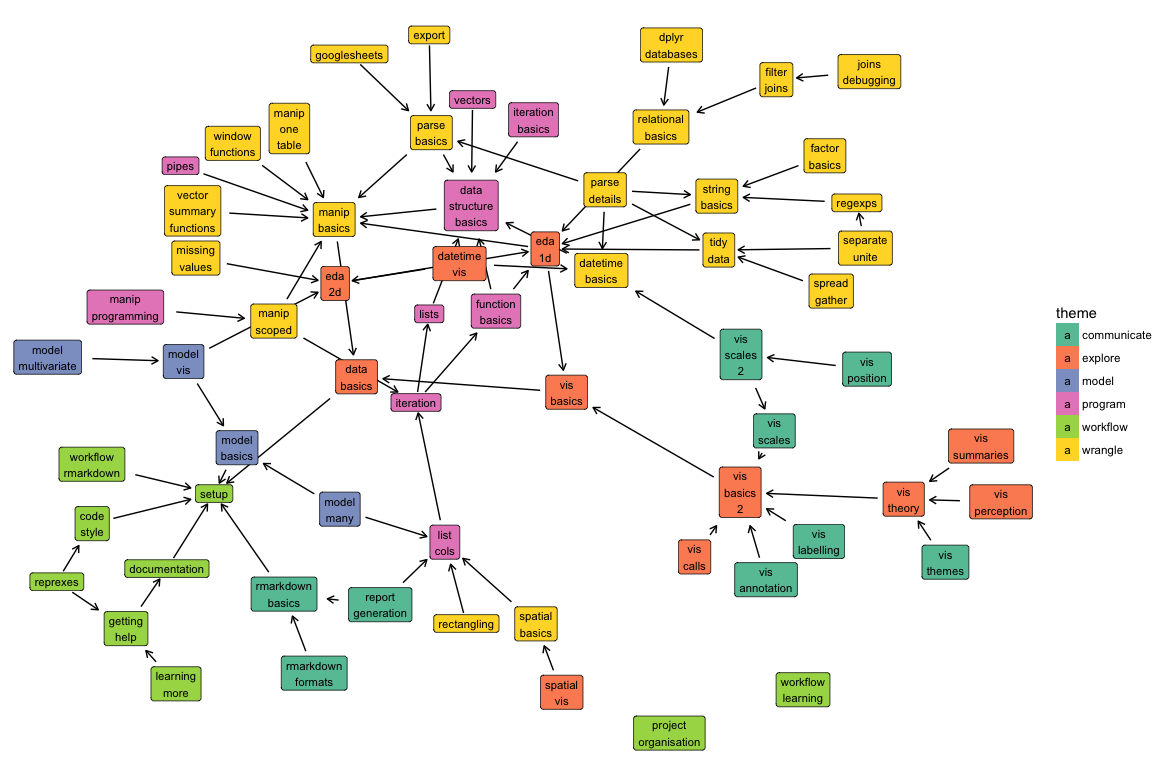
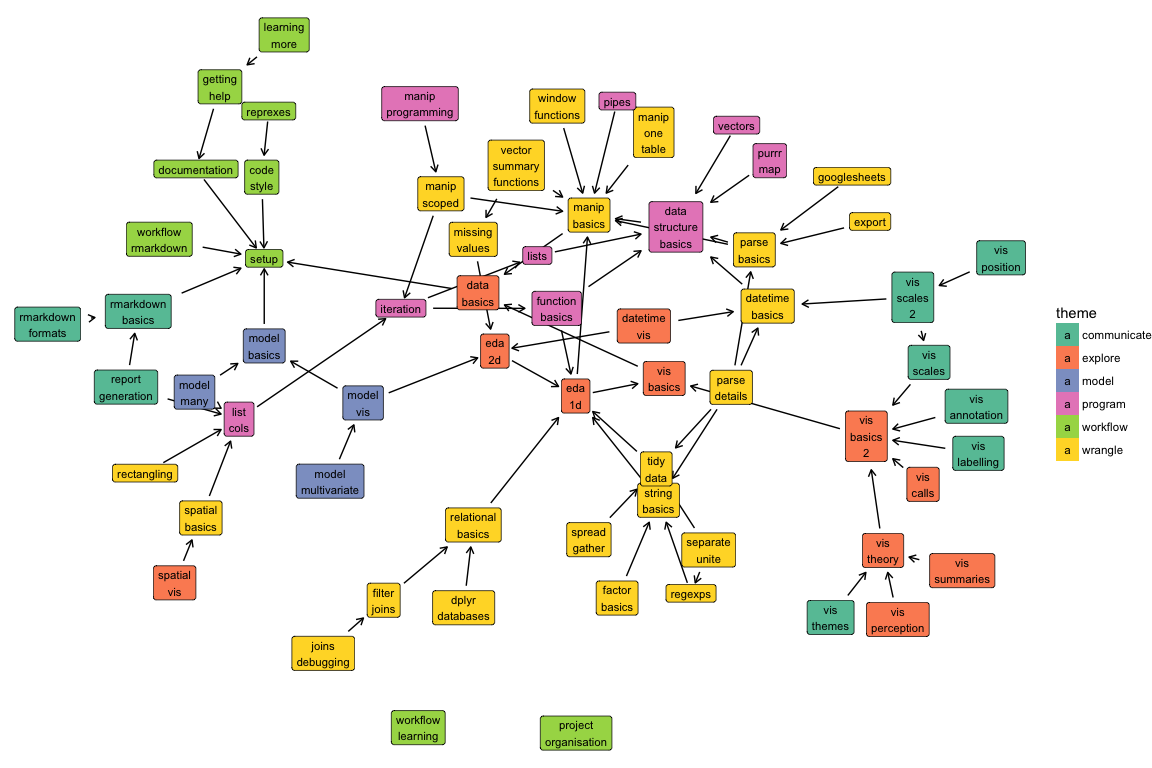
Iteration-basics tweaks
Rename to purrr-map and place in week 3.

diff --git a/docs/purrr-map.md b/docs/purrr-map.md
@@ -2,7 +2,7 @@
 title: Iteration basics
 ---
 
-<!-- Generated automatically from iteration-basics.yml. Do not edit by hand -->
+<!-- Generated automatically from purrr-map.yml. Do not edit by hand -->
 
 # Iteration basics <small class='program'>[program]</small>
 <small>(Builds on: [Data structure basics](data-structure-basics.md))</small>
@@ -13,11 +13,8 @@ title: Iteration basics
 One of the biggest advantage to using a programming langauge rather than
 a point-and-click GUI is that you can automate repetitive tasks. In this
 lesson, you’ll the learn basics of the purrr package in order to repeat
-a task across multiple elements of a list (a new data structure which
-you’ll learn about shortly).
-
-We’ll use two packages: purrr, which contains functions for iteration,
-and repurrssive, which contains some interesting data sets.
+a task across multiple elements of a vector. We’ll also use the
+repurrrsive package, which contains some interesting data sets.
 
 ``` r
 library(purrr)
@@ -74,8 +71,8 @@ str(luke)
 #>  $ url       : chr "http://swapi.co/api/people/1/"
 ```
 
-In this case, each component of `sw_people` is a list containing
-information about each character.
+In this case, each element of the `sw_people` list is another list
+containing data about a character.
 
 ### `map()` basics
 
@@ -98,8 +95,8 @@ length(leia[["starships"]])
 #> [1] 0
 ```
 
-But what if you want to do it for all 87 people? Repeating the pattern
-using copy and paste will be both tedious and error prone\!
+But what if you want to do it for all 87 people? Using copy and paste
+will be both tedious and error prone.
 
 ``` r
 length(sw_people[[1]][["starships"]])
@@ -113,33 +110,32 @@ length(sw_people[[87]][["starships"]])
 #> [1] 3
 ```
 
-Instead, we’re going to use `purrr::map()`. `map()` has two key
-arguments:
+Instead, we’re going to learn a new approach using `purrr::map()`.
+`map()` has two key arguments:
 
-  - `.x`: an atomic vector, list, or data frame to do something to
-  - `.f`: the thing to do each element
+  - `.x`: an atomic vector, list, or data frame to do manipulate.
+  - `.f`: the thing to do each element.
 
 There are many ways to specify `.f` which you’ll learn about later. For
 now, we’re going to focus on using it with **formulas**, which are
-created with `~`. Formulas allow us to extract out a common recipe from
-repeated code.
+created with `~`. Formulas allow us to extract out a common pattern, or
+recipe, from repeated code.
 
 Creating a recipe is easy: take a single solution and put a `~` in front
-of it, and replace the specific element with a pronoun, `.x`. For
-example, to find the number of starships for a person, we’d do:
+of it, and replace the part the varies over elements with `.x`, a
+pronoun. For example, to find the number of starships for a person, we’d
+do:
 
 ``` r
 ~ length(.x$starships)
 #> ~length(.x$starships)
-#> <environment: 0x7fdc1c107a78>
+#> <environment: 0x7fb6506d9a78>
 ```
 
 This is a formula. A formula doesn’t do anything; it just captures your
-intent.
-
-To do some computation with this formula, we need to apply it to the
-`sw_people` list with with map. The output is quite long so I save it to
-a variable and then only look at the first few entries (using `head()`):
+intent. Here `.x` is a pronoun like “it”, `map()` will replace `.x` with
+each element of the list in turn. To use formula, we need to apply it to
+the `sw_people` list with `map()`:
 
 ``` r
 ships <- map(sw_people, ~ length(.x$starships))
@@ -163,20 +159,27 @@ head(ships)
 #> [1] 0
 ```
 
+Note that the output is quite long so I save it to a variable and then
+only look at the first few entries (using the helpful `head()`
+function).
+
 This is much easier than copy and pasting\!
 
 ## Output type
 
 `map()` always returns a list. This is the most general function because
-there’s nothing that can’t go into a list. But often you want something
-simpler, so you might you use a more specific function:
+any R data structure can be stored inside a list. But often you want
+something simpler, so you’ll use one of the map variants:
 
-  - `map_lgl()` makes a logical vector
-  - `map_int()` makes an integer vector
-  - `map_dbl()` makes a double vector
-  - `map_chr()` makes a character vector
+  - `map_lgl()` makes a logical vector.
+  - `map_int()` makes an integer vector.
+  - `map_dbl()` makes a double vector.
+  - `map_chr()` makes a character vector.
 
-<!-- end list -->
+Here are a few examples: try and figure out what they do. If you don’t
+understand, translate back from the generic formula to a specific
+example. For example, you could translate `~ .x[["name"]]` back to
+`luke[["name"]]`.
 
 ``` r
 map_chr(sw_people, ~ .x[["name"]])
@@ -262,8 +265,8 @@ map_chr(sw_people, ~ .x[["hair_color"]])
 #> [85] "none"          "unknown"       "brown"
 ```
 
-With the `map_` functions you either get the type of vector that you
-asked for, or you get an error. Sometimes this reveals surprising
+The `map_` functions always either give you the type of vector that you
+asked for, or they throw an error. Sometimes this reveals surprising
 information about your data:
 
 ``` r
@@ -271,10 +274,11 @@ map_dbl(sw_people, ~ .x[["mass"]])
 #> Error: Can't coerce element 1 from a character to a double
 ```
 
-Why not?
+Why not? Whenever you get an error, a good strategy is to go back to the
+basics and look at a single value:
 
 ``` r
-sw_people[[1]][["mass"]]
+luke[["mass"]]
 #> [1] "77"
 ```
 
@@ -298,8 +302,9 @@ map_chr(sw_people, ~ .x[["mass"]])
 #> [85] "unknown" "unknown" "45"
 ```
 
-We probably want that as a number so we can use `read::parse_number()`
-tell it that in this variable missing values are recorded as “unknown”:
+We probably want that as a number so we can use `read::parse_number()`,
+and tell it that in this variable missing values are recorded as
+“unknown”:
 
 ``` r
 sw_people %>% 
@@ -316,7 +321,7 @@ sw_people %>%
 #> [81]   80.0     NA     NA     NA     NA     NA   45.0
 ```
 
-## Short cuts
+## Shortcuts
 
 So far we’ve used a formula recipe for the second argument of `map()`.
 But it can be lots of other things. For example, it can also be a string

diff --git a/docs/data-structure-basics.md b/docs/data-structure-basics.md
@@ -6,7 +6,7 @@ title: Data structure basics
 
 # Data structure basics <small class='program'>[program]</small>
 <small>(Builds on: [Manipulation basics](manip-basics.md))</small>  
-<small>(Leads to: [Date/time basics](datetime-basics.md), [Function basics](function-basics.md), [Iteration basics](iteration-basics.md), [Lists](lists.md), [Parsing basics](parse-basics.md), [Atomic vectors](vectors.md))</small>
+<small>(Leads to: [Date/time basics](datetime-basics.md), [Function basics](function-basics.md), [Lists](lists.md), [Parsing basics](parse-basics.md), [Iteration basics](purrr-map.md), [Atomic vectors](vectors.md))</small>
 
 
 It’s helpful to know a little bit about how data structures are
@@ -74,6 +74,11 @@ x[-1]
 x[x > 5]
 #> [1] 5.1 5.3
 ```
+
+The names of these functions are `[` and `[[` but are used like `x[y]`
+(pronounced “x square-bracket y”) and `x[[y]]` (pronounced “x
+double-square-bracket y”). You can get help on them with ``?`[` `` and
+``?`[[` ``.
 
 ### Augmented vectors
 
